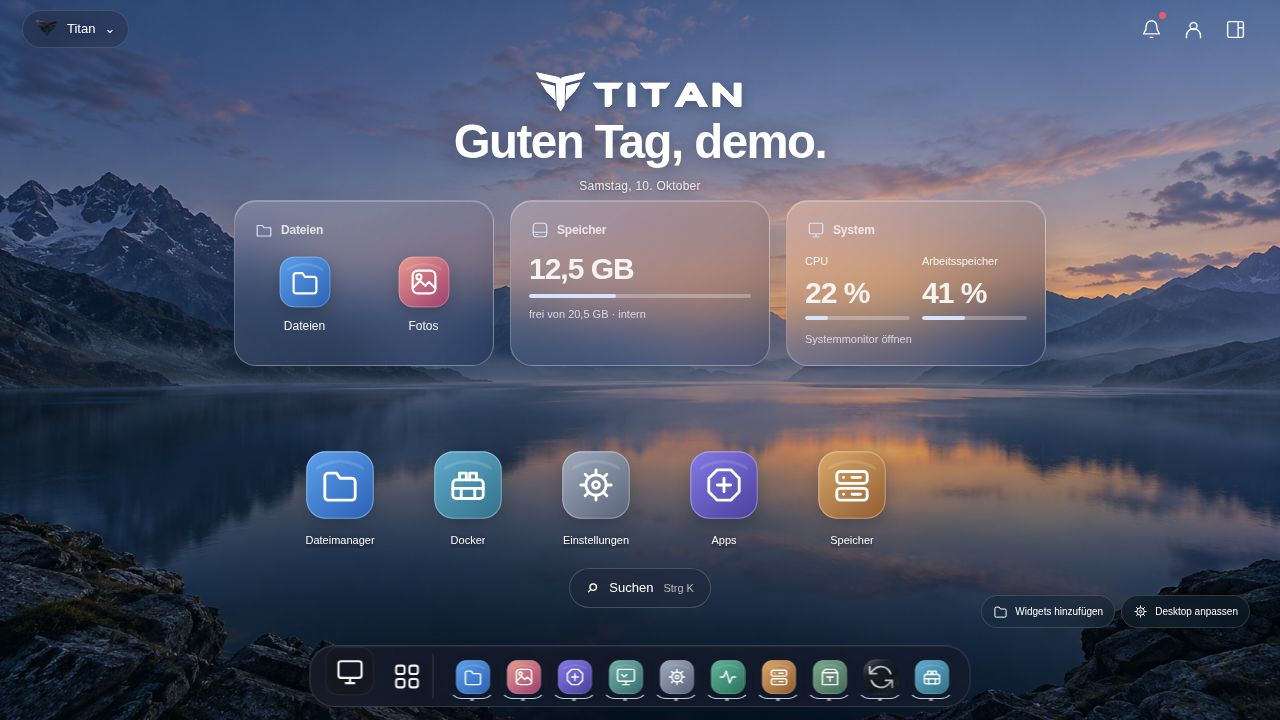
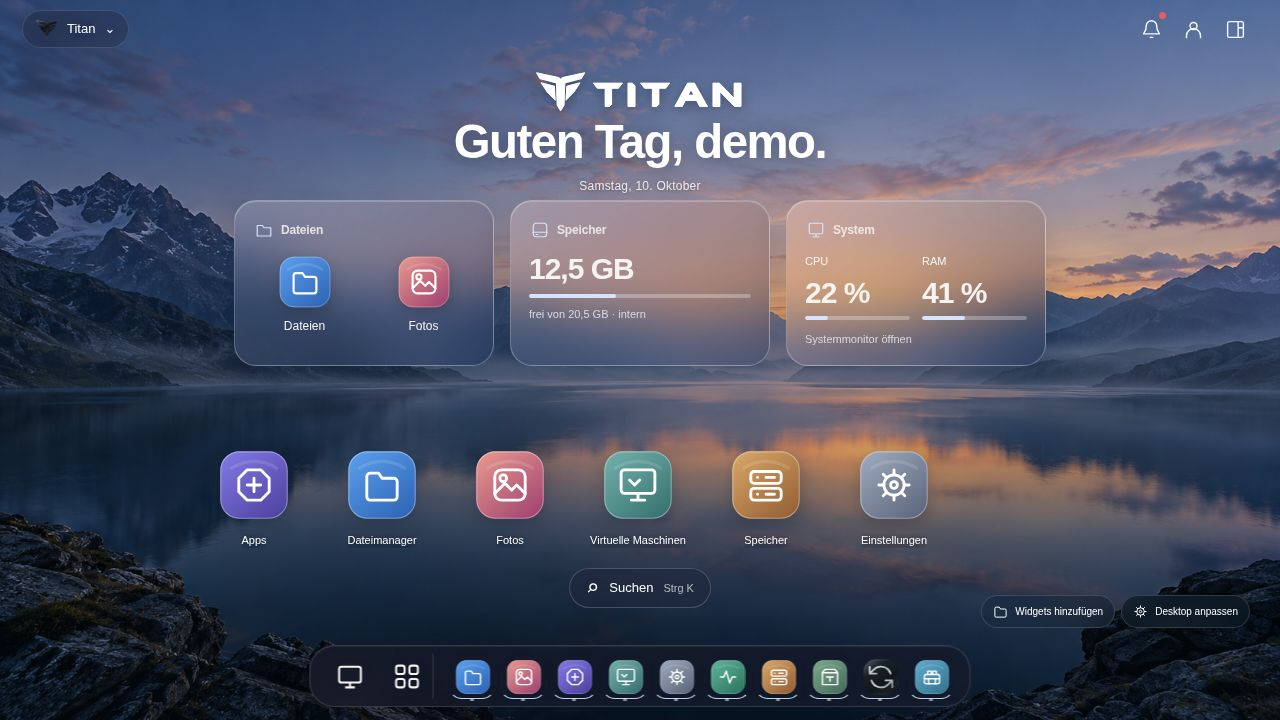
Finish responsive home layout and enforce gateway runtime protections

Changed region(s): [[0.1562, 0.6111, 0.75, 0.7639], [0.7188, 0.3361, 0.7812, 0.3667], [0.25, 0.9167, 0.2812, 0.9472]]

diff --git a/titan/web/desktop_shortcuts.js b/titan/web/desktop_shortcuts.js
@@ -3,14 +3,14 @@
  const validKey=key=>typeof key==='string'&&/^(?:(tool|app):[a-zA-Z0-9_-]{1,64}|vm:[a-f0-9]{8}(?:-[a-f0-9]{4}){3}-[a-f0-9]{12})$/.test(key);
  const idOf=row=>typeof row==='string'?row:row.id;
  const desktopPreferences=value=>({background_click:value?.background_click==='minimize'?'minimize':'none',dock_auto_hide:value?.dock_auto_hide===true,transparency:Number.isInteger(value?.transparency)&&value.transparency>=0&&value.transparency<=100?value.transparency:40,color_mode:['light','dark','system'].includes(value?.color_mode)?value.color_mode:'dark'});
- const defaults=['tool:files','tool:docker','tool:settings','tool:apps','tool:storage'];
+ const defaults=['tool:apps','tool:files','tool:photos','tool:vms','tool:storage','tool:settings'];
  function normalize(value={},allowed=[]){
   const seen=new Set(),folders=new Set(),tools=new Set(allowed),hidden=new Set(value.hidden||[]);
   const take=key=>validKey(key)&&!seen.has(key)&&(key.startsWith('app:')||key.startsWith('vm:')||tools.has(key))&&!hidden.has(key)?(seen.add(key),true):false;
   const input=value.version===2||value.items?.length?value.items:defaults;
   const items=[];for(const row of Array.isArray(input)?input:[]){if(typeof row==='string'){if(take(row))items.push(row);}else if(row&&/^folder-[a-z0-9-]{1,40}$/.test(row.id)&&!folders.has(row.id)){folders.add(row.id);items.push({id:row.id,name:String(row.name||'Ordner').slice(0,40),items:(Array.isArray(row.items)?row.items:[]).filter(take)});}}
   const positions={};for(const row of items){const key=idOf(row),p=value.positions?.[key];if(p&&Number.isInteger(p.x)&&Number.isInteger(p.y)&&p.x>=0&&p.y>=0&&p.x<32&&p.y<128)positions[key]={x:p.x,y:p.y};}
-  if(!value.docker_added&&items.length&&tools.has('tool:docker')&&!has(items,'tool:docker')&&!hidden.has('tool:docker'))items.push('tool:docker');
+  if((value.version===2||value.items?.length)&&!value.docker_added&&items.length&&tools.has('tool:docker')&&!has(items,'tool:docker')&&!hidden.has('tool:docker'))items.push('tool:docker');
   return {version:2,items,positions,desktop:desktopPreferences(value.desktop),docker_added:true,icon_size:['small','medium','large'].includes(value.icon_size)?value.icon_size:'medium',widgets:value.widgets||{visible:true,collapsed:false,items:['files','storage','system']}};
  }
  function place(items,positions,columns,rows){const used=new Set(),out={};columns=Math.max(1,columns);rows=Math.max(1,rows);for(const item of items){const key=idOf(item),preferred=positions[key];let x=preferred?Math.min(columns-1,preferred.x):0,y=preferred?Math.min(rows-1,preferred.y):0;while(used.has(x+','+y)){y++;if(y>=rows){y=0;x++;}if(x>=columns){x=0;rows++;y=rows-1;}}used.add(x+','+y);out[key]={x,y};}return out;}
@@ -36,8 +36,8 @@
   function image(key){const item=entry(key);return item.app&&win.TitanArtwork?win.TitanArtwork.render(item.app):win.TitanArtwork?.tool(item.glyph)||icon(item.glyph);}
   function card(row){const folder=typeof row==='object',key=idOf(row),item=folder?{name:row.name}:entry(key),tag=item.app&&item.url?'a':'button',link=tag==='a'?` href="${esc(item.url)}" target="_blank" rel="noopener noreferrer" draggable="false"`:'';return `<div class="desktop-shortcut" data-shortcut="${esc(key)}" ${item.app&&pendingApps.has(item.app)?'aria-busy="true"':''}><${tag}${link} class="shortcut-open" data-shortcut-open="${esc(key)}" aria-label="${esc(item.name)}" title="${esc(folder?'Ordner öffnen':item.detail||item.name)}"><span class="${folder?'shortcut-folder-icon':'desktop-app-icon'}" data-app="${esc(item.glyph||'files')}">${folder?row.items.slice(0,4).map(id=>'<span>'+image(id)+'</span>').join(''):image(key)}</span><span class="shortcut-label">${esc(item.name)}</span></${tag}><button class="shortcut-more" data-shortcut-more="${esc(key)}" aria-haspopup="menu" aria-expanded="false" aria-label="${esc(item.name)}: Schnellaktionen" title="Schnellaktionen">⋯</button></div>`;}
   let displayed={},renderedMarkup=null;
-  const cell=()=>({small:92,medium:128,large:144}[layout.icon_size]||108);
-  function position(){if(!alive)return;surface.dataset.iconSize=layout.icon_size;const size=cell(),cols=Math.max(1,Math.floor(surface.clientWidth/size)),top=Number(surface.dataset.widgetDefaultBottom??260),start=Math.ceil((Math.max(130,top)+18)/size),columns=Math.min(cols,Math.max(1,layout.items.length)),left=Math.max(0,Math.floor((cols-columns)/2)),seeded={...layout.positions};let index=0;for(const row of layout.items){const key=idOf(row);if(!seeded[key]){seeded[key]={x:left+index%columns,y:start+Math.floor(index/columns)};index++;}}const rows=Math.max(start+Math.ceil(layout.items.length/columns),Math.floor(surface.clientHeight/size),1);displayed=place(layout.items,seeded,cols,rows);surface.querySelectorAll('[data-shortcut]').forEach(node=>{const p=displayed[node.dataset.shortcut];node.style.left=p.x*size+'px';node.style.top=p.y*size+'px';node.style.transform='';node.classList.remove('shortcut-dragging');node.classList.remove('shortcut-group-target');});}
+  const cell=()=>({small:92,medium:win.innerWidth<=520?104:128,large:144}[layout.icon_size]||108);
+  function position(){if(!alive)return;surface.dataset.iconSize=layout.icon_size;const size=cell(),availableColumns=Math.max(1,Math.floor(surface.clientWidth/size)),cols=availableColumns-(Object.keys(layout.positions).length?0:(availableColumns-Math.min(availableColumns,Math.max(1,layout.items.length)))%2),top=Number(surface.dataset.widgetDefaultBottom??260),start=Math.ceil((Math.max(130,top)+18)/size),columns=Math.min(cols,Math.max(1,layout.items.length)),left=Math.max(0,Math.floor((cols-columns)/2)),seeded={...layout.positions};let index=0;for(const row of layout.items){const key=idOf(row);if(!seeded[key]){seeded[key]={x:left+index%columns,y:start+Math.floor(index/columns)};index++;}}const rows=Math.max(start+Math.ceil(layout.items.length/columns),Math.floor(surface.clientHeight/size),1);displayed=place(layout.items,seeded,cols,rows);surface.querySelectorAll('[data-shortcut]').forEach(node=>{const p=displayed[node.dataset.shortcut];node.style.left=(p.x*size+Math.max(0,(surface.clientWidth-cols*size)/2))+'px';node.style.top=p.y*size+'px';node.style.transform='';node.classList.remove('shortcut-dragging');node.classList.remove('shortcut-group-target');});}
   function welcome(){const now=new Date(),hour=now.getHours(),salutation=hour<5?'Gute Nacht':hour<11?'Guten Morgen':hour<18?'Guten Tag':'Guten Abend',date=new Intl.DateTimeFormat('de-DE',{weekday:'long',day:'numeric',month:'long'}).format(now);return `<header class="desktop-welcome"><img class="desktop-welcome-mark" src="/brand/titan-wordmark.svg" alt="Titan" width="220" height="44" draggable="false"><h1>${salutation}, ${esc(user.name)}.</h1><p>${esc(date)}</p></header>`;}
   function render(){if(!alive)return;const focused=surface.contains(doc.activeElement)?doc.activeElement:null,focusKey=focused?.closest('[data-shortcut]')?.dataset.shortcut,more=focused?.hasAttribute('data-shortcut-more'),markup=welcome()+layout.items.map(card).join('')+`<div class="desktop-personalize"><button type="button" data-widgets-picker aria-label="Widgets hinzufügen">${icon('plus')}<span>Widgets hinzufügen</span></button><button type="button" data-desktop-customize aria-haspopup="menu" aria-label="Desktop anpassen">${icon('settings')}<span>Desktop anpassen</span></button></div><div class="desktop-save-state" role="status">${readonly?'Einstellungen nicht geladen':failed?'Änderungen noch nicht gespeichert':''}${failed?'<button type="button" data-desktop-retry>Erneut speichern</button>':''}</div><span class="desktop-watermark">Titan</span>`;if(markup!==renderedMarkup){content.innerHTML=markup;renderedMarkup=markup;}position();if(opened)renderFolder();if(focusKey&&doc.activeElement!==focused)surface.querySelector(`[data-shortcut-${more?'more':'open'}="${focusKey}"]`)?.focus({preventScroll:true});}
   async function persist(){if(readonly)return;if(saving)return;saving=true;let savedRevision;try{do{savedRevision=revision;const value=JSON.parse(JSON.stringify(layout));await api('/api/launcher-layout',value);}while(alive&&savedRevision!==revision);failed=false;}catch(error){failed=true;if(alive)toast(error.message||'Desktop konnte nicht gespeichert werden.',true);}finally{saving=false;if(alive){const status=surface.querySelector('.desktop-save-state');if(status)status.innerHTML=failed?'Änderungen noch nicht gespeichert <button type="button" data-desktop-retry>Erneut speichern</button>':'';}}}

diff --git a/titan/web/desktop_widgets.js b/titan/web/desktop_widgets.js
@@ -26,7 +26,7 @@
   const cards=new Map(),config=doc.createElement('dialog');config.className='widget-settings widget-gallery';config.setAttribute('aria-label','Widgets hinzufügen');doc.body.append(config);
   if(toggle){toggle.hidden=false;toggle.setAttribute('aria-label','Widgets hinzufügen');toggle.setAttribute('title','Widgets hinzufügen');toggle.setAttribute('aria-haspopup','dialog');toggle.setAttribute('aria-expanded','false');toggle.removeAttribute('aria-pressed');}
   function area(){const surface=doc.querySelector('#desktop-surface'),rect=surface?.getBoundingClientRect();return rect&&rect.width>0&&rect.height>0?{left:8,top:8,width:Math.max(0,surface.clientWidth-16),height:Math.max(0,surface.clientHeight-16)}:{left:8,top:70,width:Math.max(0,win.innerWidth-16),height:Math.max(0,win.innerHeight-126)};}
-  function point(key,node,index){const available=area(),rect=node.getBoundingClientRect();if(prefs.positions?.[key])return placement(prefs.positions[key],available,rect.width,rect.height);if(index===0&&prefs.position)return placement(prefs.position,available,rect.width,rect.height);const gap=16,start=clamp(win.innerHeight<=580?76:134,available.height-rect.height),columns=Math.min(3,prefs.items.length,Math.max(1,Math.floor((available.width+gap)/(rect.width+gap)))),column=index%columns,row=Math.floor(index/columns),width=columns*rect.width+(columns-1)*gap;return {left:available.left+Math.max(0,(available.width-width)/2)+column*(rect.width+gap),top:available.top+start+row*(rect.height+gap)};}
+  function point(key,node,index){const available=area(),rect=node.getBoundingClientRect();if(win.innerWidth<=520&&!prefs.position&&!Object.keys(prefs.positions||{}).length&&prefs.items.join(',')==='files,storage,system'){const start=104;if(key==='files')return {left:available.left+(available.width-rect.width)/2,top:available.top+start};const first=cards.get('files')?.getBoundingClientRect().height||100,total=rect.width*2+12;return {left:available.left+(available.width-total)/2+(key==='system'?rect.width+12:0),top:available.top+start+first+12};}if(prefs.positions?.[key])return placement(prefs.positions[key],available,rect.width,rect.height);if(index===0&&prefs.position)return placement(prefs.position,available,rect.width,rect.height);const gap=16,start=clamp(win.innerHeight<=580?76:134,available.height-rect.height),columns=Math.min(3,prefs.items.length,Math.max(1,Math.floor((available.width+gap)/(rect.width+gap)))),column=index%columns,row=Math.floor(index/columns),width=columns*rect.width+(columns-1)*gap;return {left:available.left+Math.max(0,(available.width-width)/2)+column*(rect.width+gap),top:available.top+start+row*(rect.height+gap)};}
   function positionCards(){if(!alive)return;let index=0,bottom=0;const surface=doc.querySelector('#desktop-surface');for(const [key,node]of cards){const available=area();node.style.maxHeight=Math.max(90,available.height)+'px';const p=point(key,node,index++);node.style.left=p.left+'px';node.style.top=p.top+'px';node.style.right='auto';node.style.bottom='auto';if(!prefs.positions?.[key]&&!prefs.position)bottom=Math.max(bottom,p.top+node.getBoundingClientRect().height);}if(surface&&surface.dataset.widgetDefaultBottom!==String(bottom)){surface.dataset.widgetDefaultBottom=String(bottom);if(win.CustomEvent)doc.dispatchEvent?.(new win.CustomEvent('titan-widget-layout',{detail:{bottom}}));}}
   function values(key){
    if(key==='files')return {value:'Deine Dateien',caption:'Dateien und Fotos öffnen'};
@@ -40,7 +40,7 @@
   }
   function content(key){
    if(key==='files')return `<div class="widget-file-links"><button type="button" data-widget-open="files"><img src="/app-icons/titan-files.svg" alt=""><span>Dateien</span></button><button type="button" data-widget-open="photos"><img src="/app-icons/titan-photos.svg" alt=""><span>Fotos</span></button></div>`;
-   if(key==='system')return `<button type="button" class="widget-system-overview" data-widget-open="resources">${['cpu','ram'].map(k=>`<span class="widget-system-meter"><span>${names[k]}</span><strong data-system-value="${k}">—</strong><progress max="100" value="0" data-system-progress="${k}" aria-label="${names[k]}"></progress></span>`).join('')}<small data-widget-caption>Systemmonitor öffnen</small></button>`;
+   if(key==='system')return `<button type="button" class="widget-system-overview" data-widget-open="resources">${['cpu','ram'].map(k=>`<span class="widget-system-meter"><span>${k==='ram'?'RAM':names[k]}</span><strong data-system-value="${k}">—</strong><progress max="100" value="0" data-system-progress="${k}" aria-label="${names[k]}"></progress></span>`).join('')}<small data-widget-caption>Systemmonitor öffnen</small></button>`;
    const item=values(key),body=`<strong data-widget-value${key==='health'?' class="widget-health-value"':''}>${esc(item.value)}</strong>${item.progress!==undefined?`<progress max="100" value="${item.progress}" aria-label="${names[key]}"></progress>`:''}<small data-widget-caption>${esc(item.caption)}</small>`;
    if(key==='clock')return `<div class="widget-clock">${body.replace('<small data-widget-caption>','<span data-widget-caption>').replace('</small>','</span>')}</div>`;
    return `<button type="button" ${key==='activity'?'data-widget-jobs':`data-widget-open="${key==='cpu'||key==='ram'?'resources':key==='storage'?'storage':'monitoring'}"`} class="${key==='cpu'||key==='ram'?'widget-metric':''}">${body}</button>`;

diff --git a/titan/web/horizon.css b/titan/web/horizon.css
@@ -168,3 +168,18 @@ html[data-color-theme] .apps-center .ac-search input:focus-visible{outline:none;
  #shell[data-page=vms] .vm-row-icon,#shell[data-page=vms] .vm-row-icon img{width:92px;height:82px}
  #shell[data-page=vms] .vm-row-live{margin-top:4px;padding-top:12px}
 }
+@media(max-width:520px){
+ .desktop-welcome h1{font-size:28px;letter-spacing:-.8px}
+ .desktop-welcome :is(img,.desktop-welcome-mark){max-width:160px!important;height:32px!important;margin-bottom:8px}
+ html[data-color-theme] .desktop-widget-card[data-widget-card=files]{width:calc(100vw - 44px);min-height:100px;height:100px}
+ html[data-color-theme] .desktop-widget-card:is([data-widget-card=storage],[data-widget-card=system]){width:calc((100vw - 56px)/2);min-height:132px;height:132px}
+ html[data-color-theme] .desktop-widget-card>header{padding:10px 12px 0;min-height:30px}
+ html[data-color-theme] .desktop-widget-card .widget-content{padding:8px 12px 10px}
+ html[data-color-theme] .desktop-widget-card .widget-content>button{min-height:70px}
+ html[data-color-theme] .desktop-widget-card .widget-content strong{font-size:23px;letter-spacing:-.5px}
+ .desktop-widget-card .widget-file-links{gap:12px;padding:0}
+ .desktop-widget-card .widget-file-links button{flex-direction:row;gap:10px;justify-content:center}
+ .desktop-widget-card .widget-file-links img{width:38px;height:38px}
+ .desktop-widget-card .widget-system-overview small{font-size:9px!important}
+ html[data-color-theme] .desktop-surface[data-icon-size=medium] .desktop-shortcut{width:100px;height:100px}
+}

diff --git a/titan/app_management.py b/titan/app_management.py
@@ -424,6 +424,18 @@ class AppMixin(PackageCenterMixin, AppMetricsMixin, AppDevicesMixin, AppNetworkM
             self._app_inspected_containers(), installation=True, vms=vm_memory_reservations(_run))
         return {**result, "plan": plan}
 
+    @staticmethod
+    def _app_capabilities_match(app, service_key, definition, host):
+        from .app_gateway import IMAGE
+        actual = {str(value).removeprefix('CAP_') for value in host.get('CapAdd') or []}
+        gateway = (service_key == app and APPS.get(app, {}).get('app_gateway')
+                   and definition.get('image') == IMAGE)
+        if not gateway:
+            return not actual
+        return (actual == {'NET_BIND_SERVICE'} and host.get('ReadonlyRootfs') is True
+                and set(host.get('CapDrop') or []) == {'ALL'}
+                and set(host.get('SecurityOpt') or []) in ({'no-new-privileges'}, {'no-new-privileges:true'}))
+
     def _app_container(self, app, record, rows=None, options=None, service_key=None):
         service_key = service_key or app
         if rows is None:
@@ -479,7 +491,7 @@ class AppMixin(PackageCenterMixin, AppMetricsMixin, AppDevicesMixin, AppNetworkM
                     container.get("Config", {}).get("Image") != definition["image"] or
                     bindings != expected_bindings or actual_ports != expected_ports or
                     not self._app_declared_volumes(container, expected_bindings, definition.get("tmpfs", [])) or
-                    host.get("Privileged") or host.get("CapAdd") or
+                    host.get("Privileged") or not self._app_capabilities_match(app, service_key, definition, host) or
                     (host.get("Devices") or []) != [{"PathOnHost":v.split(":")[0],"PathInContainer":v.split(":")[1],"CgroupPermissions":v.split(":")[2]} for v in definition.get("devices", [])]):
                 raise Error("Container und verwaltete App-Konfiguration stimmen nicht überein.", 409)
             expected_requests=definition.get("deploy",{}).get("resources",{}).get("reservations",{}).get("devices",[])

diff --git a/scripts/smoke-app-gateway.py b/scripts/smoke-app-gateway.py
@@ -80,10 +80,14 @@ def main():
             inspections=json.loads(subprocess.check_output(['docker','inspect','titan-'+app+'-backend'],text=True))
             if inspections[0]['HostConfig'].get('PortBindings'):
                 raise Error('Package backend bypasses the authentication gateway.')
+            from titan.app_management import AppMixin
+            gateway=json.loads(subprocess.check_output(['docker','inspect','titan-'+app],text=True))[0]
+            if not AppMixin._app_capabilities_match(app,app,definition['services'][app],gateway['HostConfig']):
+                raise Error('Installed gateway fails the production container protection check.')
             store.logout(parent)
             if request('/',cookie=cookie)[0]!=401:raise Error('Logout did not revoke app access.')
             print(json.dumps({'ok':True,'app':'bentopdf','revision':args.revision,'scope':'actual-catalog-app-gateway',
-                'checks':['compose-valid','unauthenticated-denied','single-use-handoff','actual-html','backend-not-published','logout-revoked']}))
+                'checks':['compose-valid','unauthenticated-denied','single-use-handoff','actual-html','backend-not-published','production-capability-check','logout-revoked']}))
         except Exception:
             print(docker('ps','--all'),file=sys.stderr)
             print(docker('logs','--no-color','--tail','60',app),file=sys.stderr)

diff --git a/tests/test_app_gateway.py b/tests/test_app_gateway.py
@@ -44,3 +44,20 @@ class AppGatewayTests(unittest.TestCase):
 
     def test_no_gateway_recipe_keeps_existing_definition(self):
         self.assertIs(wrap(self.definition, 'notes', {'port': 8080}), self.definition)
+
+class GatewayCapabilitiesTests(unittest.TestCase):
+    def test_only_pinned_gateway_may_keep_its_binary_bind_capability(self):
+        from unittest.mock import patch
+        from titan.app_management import AppMixin
+        from titan.catalog import APPS
+        from titan.app_gateway import IMAGE
+        definition={'image':IMAGE}
+        host={'CapAdd':['CAP_NET_BIND_SERVICE'],'CapDrop':['ALL'],'ReadonlyRootfs':True,
+              'SecurityOpt':['no-new-privileges:true']}
+        with patch.dict(APPS, {'example':{'app_gateway':True}}):
+            self.assertTrue(AppMixin._app_capabilities_match('example','example',definition,host))
+            self.assertFalse(AppMixin._app_capabilities_match('example','example-backend',definition,host))
+            for changed in ({'CapAdd':['SYS_ADMIN']},{'CapAdd':['NET_BIND_SERVICE','SYS_ADMIN']},
+                            {'CapDrop':[]},{'ReadonlyRootfs':False},{'SecurityOpt':[]}):
+                self.assertFalse(AppMixin._app_capabilities_match('example','example',definition,{**host,**changed}))
+            self.assertFalse(AppMixin._app_capabilities_match('example','example',{'image':'foreign'},host))

diff --git a/README.md b/README.md
@@ -14,7 +14,7 @@ Die überarbeitete Oberfläche im Branch `codex/recovery-unified-updates` umfass
 
 ![Aktuelle Speicherübersicht mit Demodaten](docs/images/titan-next-storage.png)
 
-[Desktop](docs/images/titan-next-home.png) · [Login](docs/images/titan-next-login.jpg) · [Dateien](docs/images/titan-next-files.png) · [Maschinen](docs/images/titan-next-machines.png) · [Container](docs/images/titan-next-docker.png) · [Ressourcen](docs/images/titan-next-resources.png) · [Recovery](docs/images/titan-next-recovery.png) · [Updates](docs/images/titan-next-updates.png) · [App Store](docs/images/titan-next-store.jpg) · [Speicher mobil](docs/images/titan-next-storage-mobile.png)
+[Desktop](docs/images/titan-next-home.png) · [Desktop mobil](docs/images/titan-next-home-mobile.png) · [Login](docs/images/titan-next-login.jpg) · [Dateien](docs/images/titan-next-files.png) · [Maschinen](docs/images/titan-next-machines.png) · [Container](docs/images/titan-next-docker.png) · [Ressourcen](docs/images/titan-next-resources.png) · [Recovery](docs/images/titan-next-recovery.png) · [Updates](docs/images/titan-next-updates.png) · [App Store](docs/images/titan-next-store.jpg) · [Speicher mobil](docs/images/titan-next-storage-mobile.png)
 
 Browserprüfung bei 1280 × 720 und 390 × 844: Einstellungssuche und Unterseiten, Speicher-/Laufwerksnavigation, Datei- und Listenansicht, Containerdetails, Backup-Assistent und zentrale Updateprüfung. Auf Mobilgeräten wurden Speicher, Dateien und Updates geprüft; überlagerte Dateinamen und die schmale Dateifußleiste wurden korrigiert. Fotos zeigt im leeren Demo-Bestand den passenden Leerzustand; eine befüllte Galerie wurde in dieser Prüfung nicht verifiziert. 80 vorhandene UI-Testgruppen bestanden. Die Screenshots stammen aus einer isolierten Demo mit deaktivierten Installationen und belegen keine NAS-Laufzeitprüfung. Neue Oberflächenelemente und SVG-Grafiken wurden eigenständig erstellt; Referenzbilder wurden nicht in das Produkt übernommen.
 
